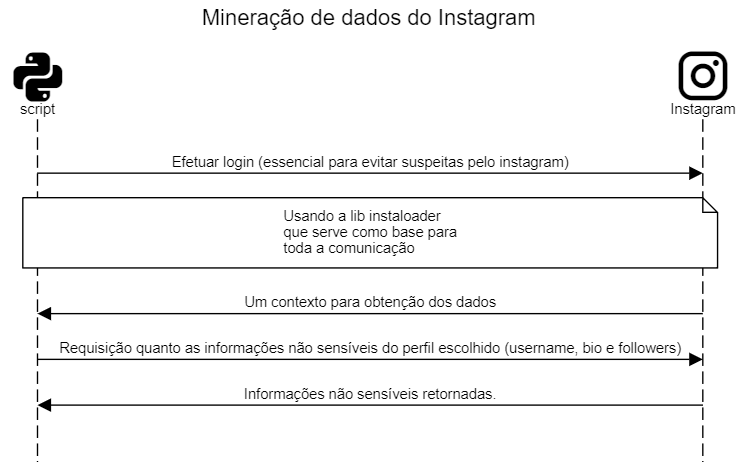
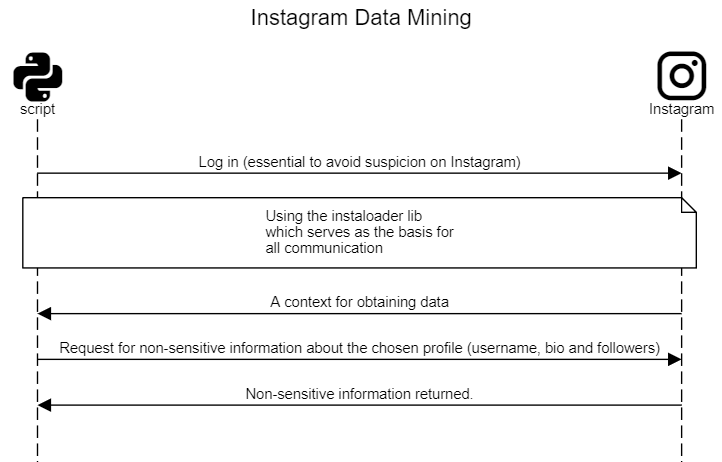
Change diagram text and image to english

diff --git a/README.md b/README.md
@@ -20,4 +20,5 @@ In order to facilitate the installation process, there is a powershell and bash 
  ./util/installDependencies
  ```
 
- 
+ ## A diagram for the flow current
+ ![diagram](diagram/Instagram%20Data%20Mining.png)
